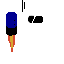
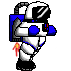
New sprites (player2), some fixes

diff --git a/moonrun.py b/moonrun.py
@@ -4,7 +4,8 @@
 V 0.4:
 
 NOTES:
-
+- background sprites are lagging 
+- if displayObjects are already on screen their vel isn't updated
 
 
 TO DO: 
@@ -101,11 +102,11 @@ p2colour = pygame.Color('blue')
 night = pygame.image.load('starry.png')
 
 p1move = [pygame.image.load('p11.png'), pygame.image.load('p12.png'), pygame.image.load('p13.png'), pygame.image.load('p14.png'), pygame.image.load('p15.png'), pygame.image.load('p16.png'), pygame.image.load('p17.png'), pygame.image.load('p18.png')]
-p2move = [pygame.image.load('p11.png'), pygame.image.load('p12.png'), pygame.image.load('p13.png'), pygame.image.load('p14.png'), pygame.image.load('p15.png'), pygame.image.load('p16.png'), pygame.image.load('p17.png'), pygame.image.load('p18.png')]
+p2move = [pygame.image.load('p21.png'), pygame.image.load('p22.png'), pygame.image.load('p23.png'), pygame.image.load('p24.png'), pygame.image.load('p25.png'), pygame.image.load('p26.png'), pygame.image.load('p27.png'), pygame.image.load('p28.png')]
 p1stand = pygame.image.load('p10.png')
 p1jump = [pygame.image.load('p1j.png'),pygame.image.load('p1j2.png')]
 p2stand = pygame.image.load('p20.png')
-p2jump = [pygame.image.load('p1j.png'),pygame.image.load('p1j2.png')]
+p2jump = [pygame.image.load('p2j.png'),pygame.image.load('p2j2.png')]
 
 
 #sounds
@@ -131,7 +132,7 @@ class player (object):
         self.jumpimg = jumpimg
         self.name = name
 
-        self.vel = (5/4)*worldvel
+        self.vel = worldvel+2
         self.isJump = False
         self.jumpheight = 10
         self.jumpCount = self.jumpheight
@@ -422,6 +423,7 @@ except EOFError:
 itemlist=[]
 holelist=[]
 meteolist=[]
+allobjlist = [itemlist,holelist,meteolist]
 playerlist = [player1]
 gameovercount = 0
 winner = 0
@@ -613,8 +615,6 @@ while run:
                         select.play()
                         reset()
                         pause = False
-                
-            
 
             pygame.display.update()
             continue
@@ -639,9 +639,10 @@ while run:
     if speedcount % 500 == 0:
         worldvel *= 1.5
         select.play()
-    player1.vel = worldvel
-    player2.vel = worldvel
-
+    player1.vel = worldvel+2
+    player2.vel = worldvel+2
+    bd1.vel = worldvel/4
+    bd2.vel = worldvel/2
 
     #game over 
     
